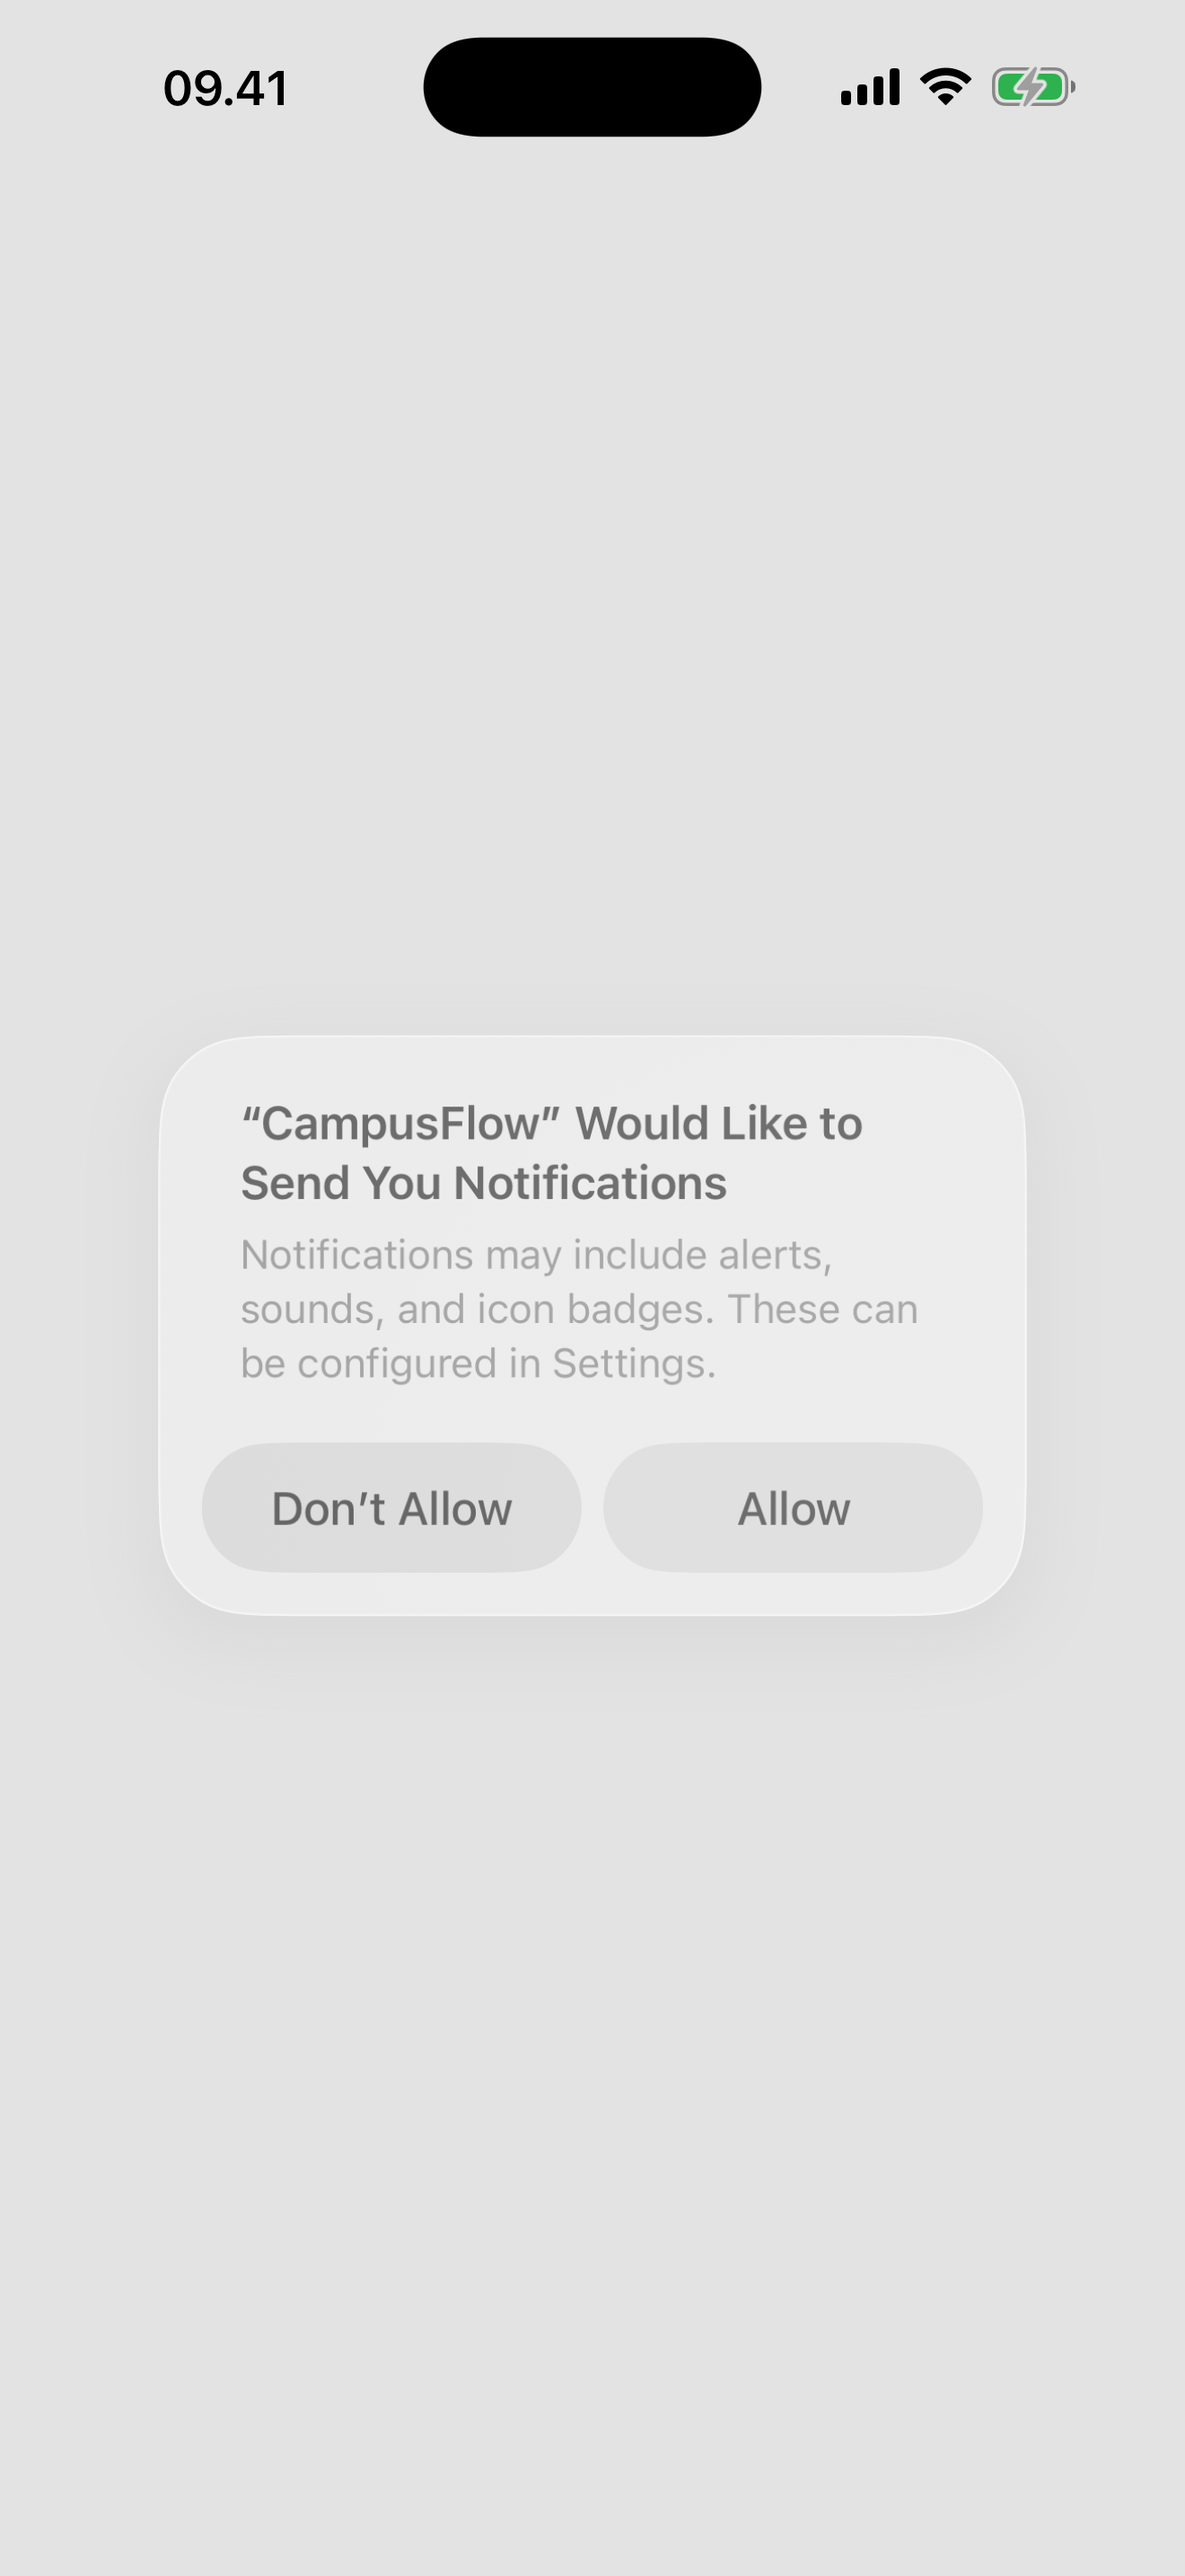
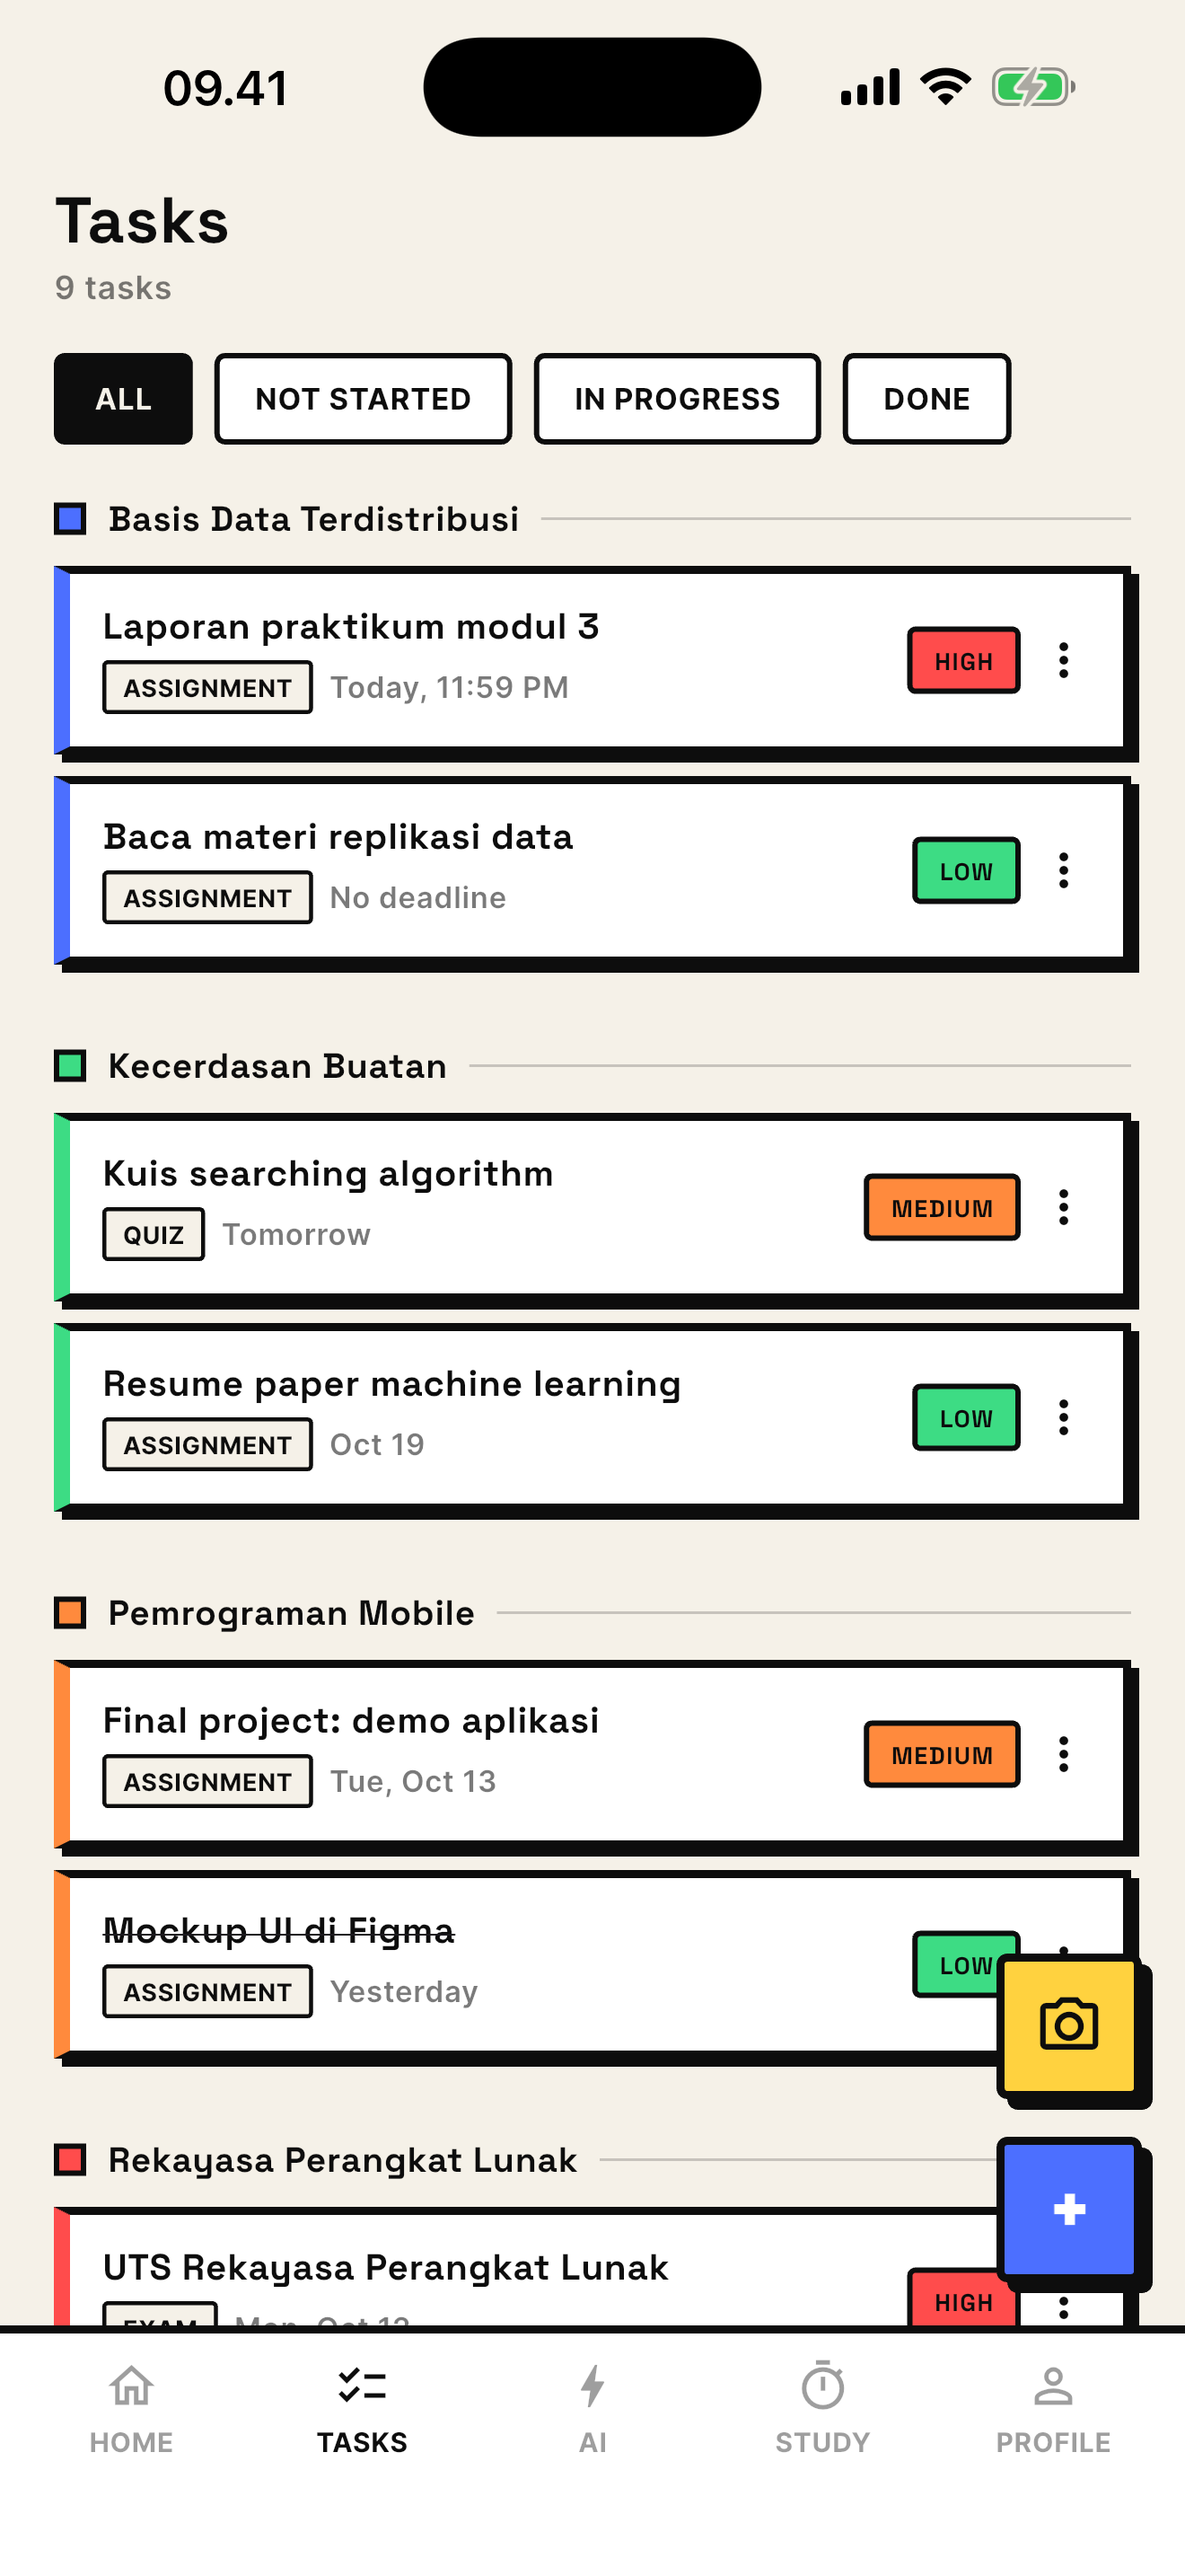
Fix screenshot login/home/tasks yang tertutup dialog notifikasi + README 136 test
Tiga screenshot di 413c305 ikut terambil saat dialog izin notifikasi iOS
masih tampil; diambil ulang. Jumlah test backend di README disamakan (136).

diff --git a/README.md b/README.md
@@ -17,7 +17,7 @@ Dibangun sebagai final project mata kuliah Mobile Development.
 | **Auth** | JWT access + refresh token, password di-hash bcrypt |
 | **Fitur AI** | Groq API (`openai/gpt-oss-120b`) — chat planner, penyusun jadwal, ringkasan & kuis materi |
 | **Platform** | iOS (iPhone) dan Android, satu codebase Flutter |
-| **Testing** | pytest (backend, 131 test), flutter_test unit+widget (mobile, 100 test), plus 1 integration test end-to-end — semuanya hijau |
+| **Testing** | pytest (backend, 136 test), flutter_test unit+widget (mobile, 100 test), plus 1 integration test end-to-end — semuanya hijau |
 
 ### Fitur
 
@@ -416,7 +416,7 @@ pip install -r requirements-dev.txt
 pytest -v
 ```
 
-**Hasil: 131 passed.** (lihat `screenshots/testing/` untuk screenshot hasil run-nya)
+**Hasil: 136 passed.** (lihat `screenshots/testing/` untuk screenshot hasil run-nya)
 
 | File | Cakupan |
 |---|---|
@@ -517,7 +517,7 @@ ulang otomatis lewat `mobile/integration_test/booth_screenshots_test.dart` dan
 │   │   ├── routers/       # auth, courses, tasks, study_sessions, materials, ai
 │   │   ├── services/      # planning_service, groq_service, chat_service, materials_service
 │   │   └── alembic/       # migrasi
-│   └── tests/             # 131 test, lihat §6.1
+│   └── tests/             # 136 test, lihat §6.1
 ├── mobile/
 │   ├── lib/
 │   │   ├── core/
